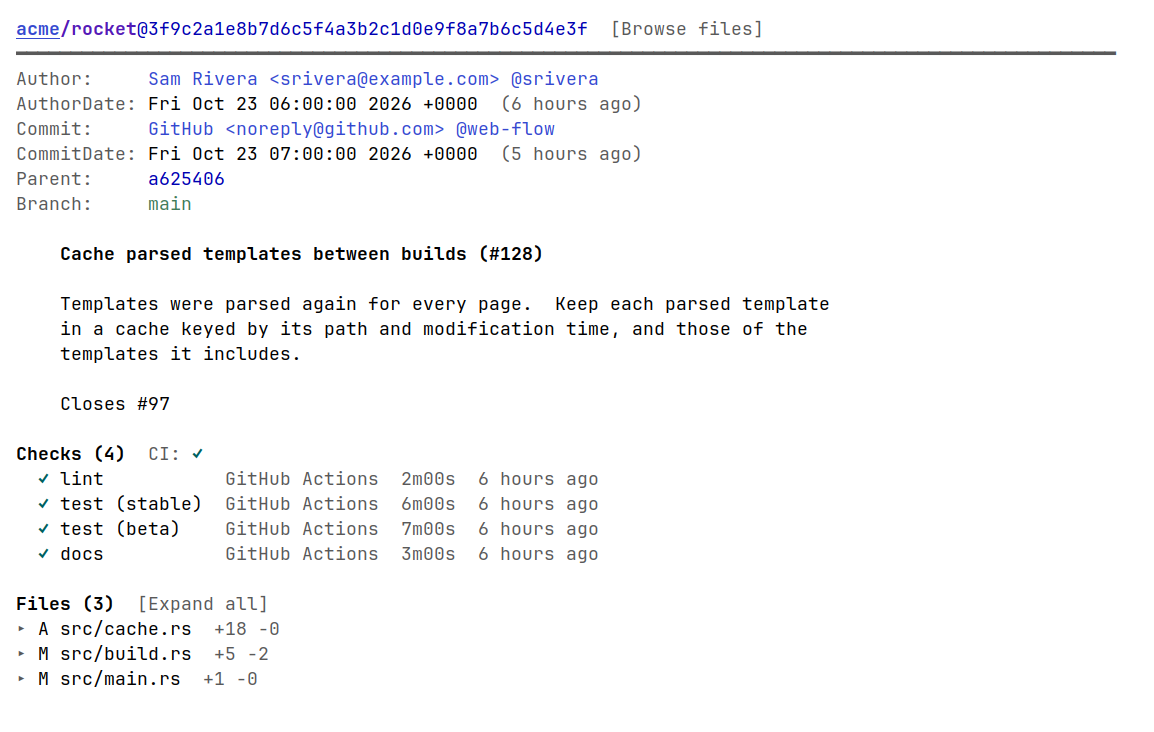
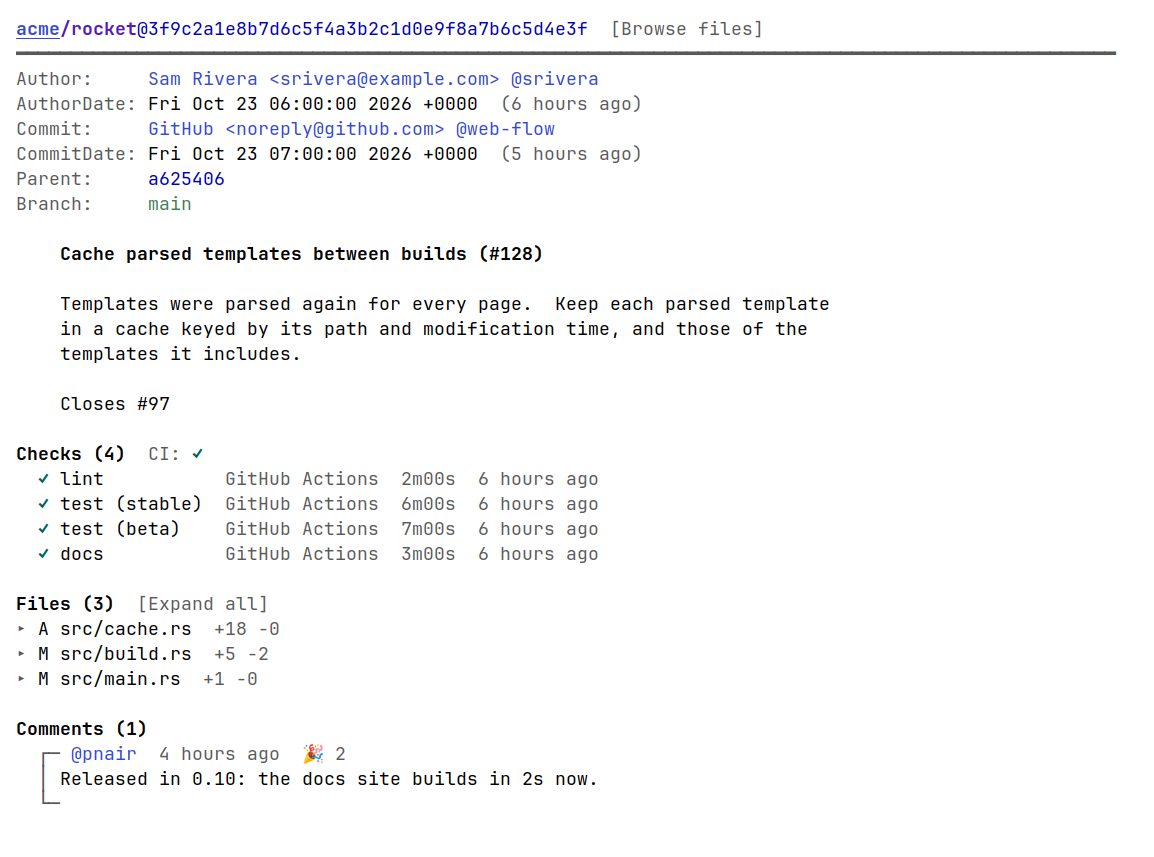
Show reactions on issues, pull requests, comments and reviews
The opening post, each comment and each review in a timeline, and each
comment boxed on the commit and PR diff pages, now show their
reactions after the date, as "👍 3  🎉 1".  They go in the heading,
not under the body as on GitHub, so a folded long comment still shows
them.

`gh issue view' and `gh pr view' give comments and reviews their
"reactionGroups" already, and the issue or PR its own once asked for;
the REST comments carry a "reactions" object.  `octocat--reaction-counts'
reads either.

Changed region(s): [[0.0, 0.0, 0.9671, 0.9617]]

diff --git a/CHANGELOG.md b/CHANGELOG.md
@@ -4,6 +4,7 @@ All notable changes to this project will be documented in this file.
 The format is based on [Keep a Changelog](https://keepachangelog.com/en/1.0.0/).
 
 ## [Unreleased]
+* Issues, pull requests, comments and reviews show their reactions, such as 👍 3
 * New and edited comments and descriptions show at once, with a spinner until saved
 * Expanding a long comment no longer scrolls the window; RET still folds it back
 * octocat passes melpazoid, the checks of MELPA's review, which `make ci` now runs
